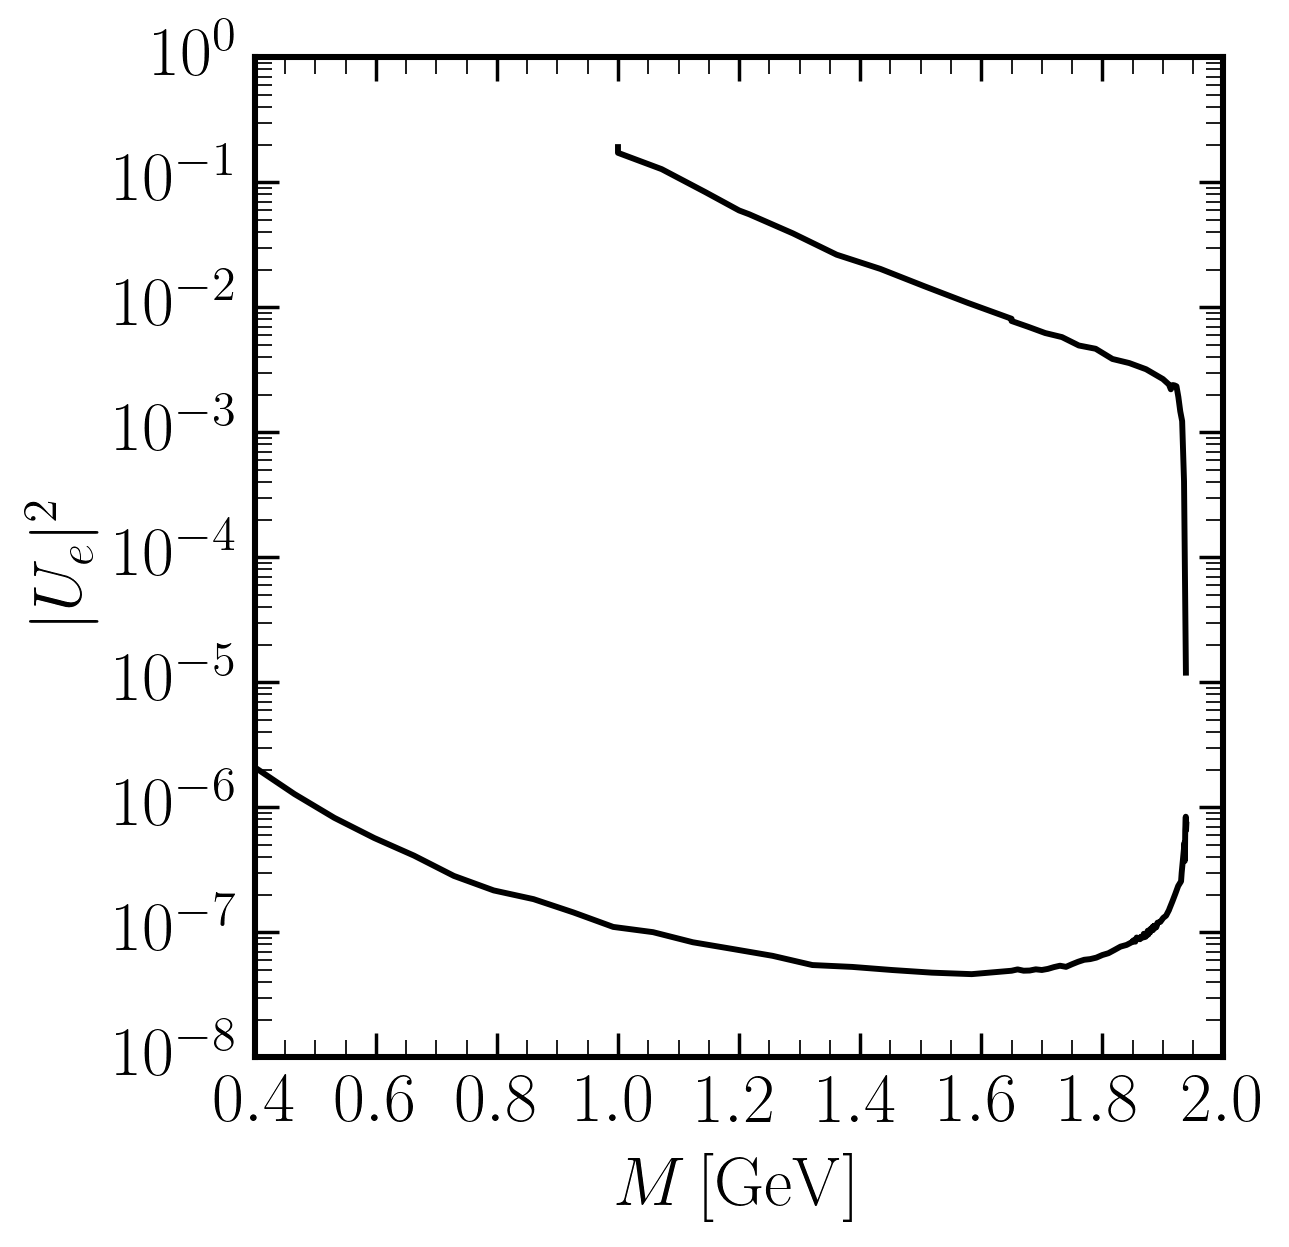
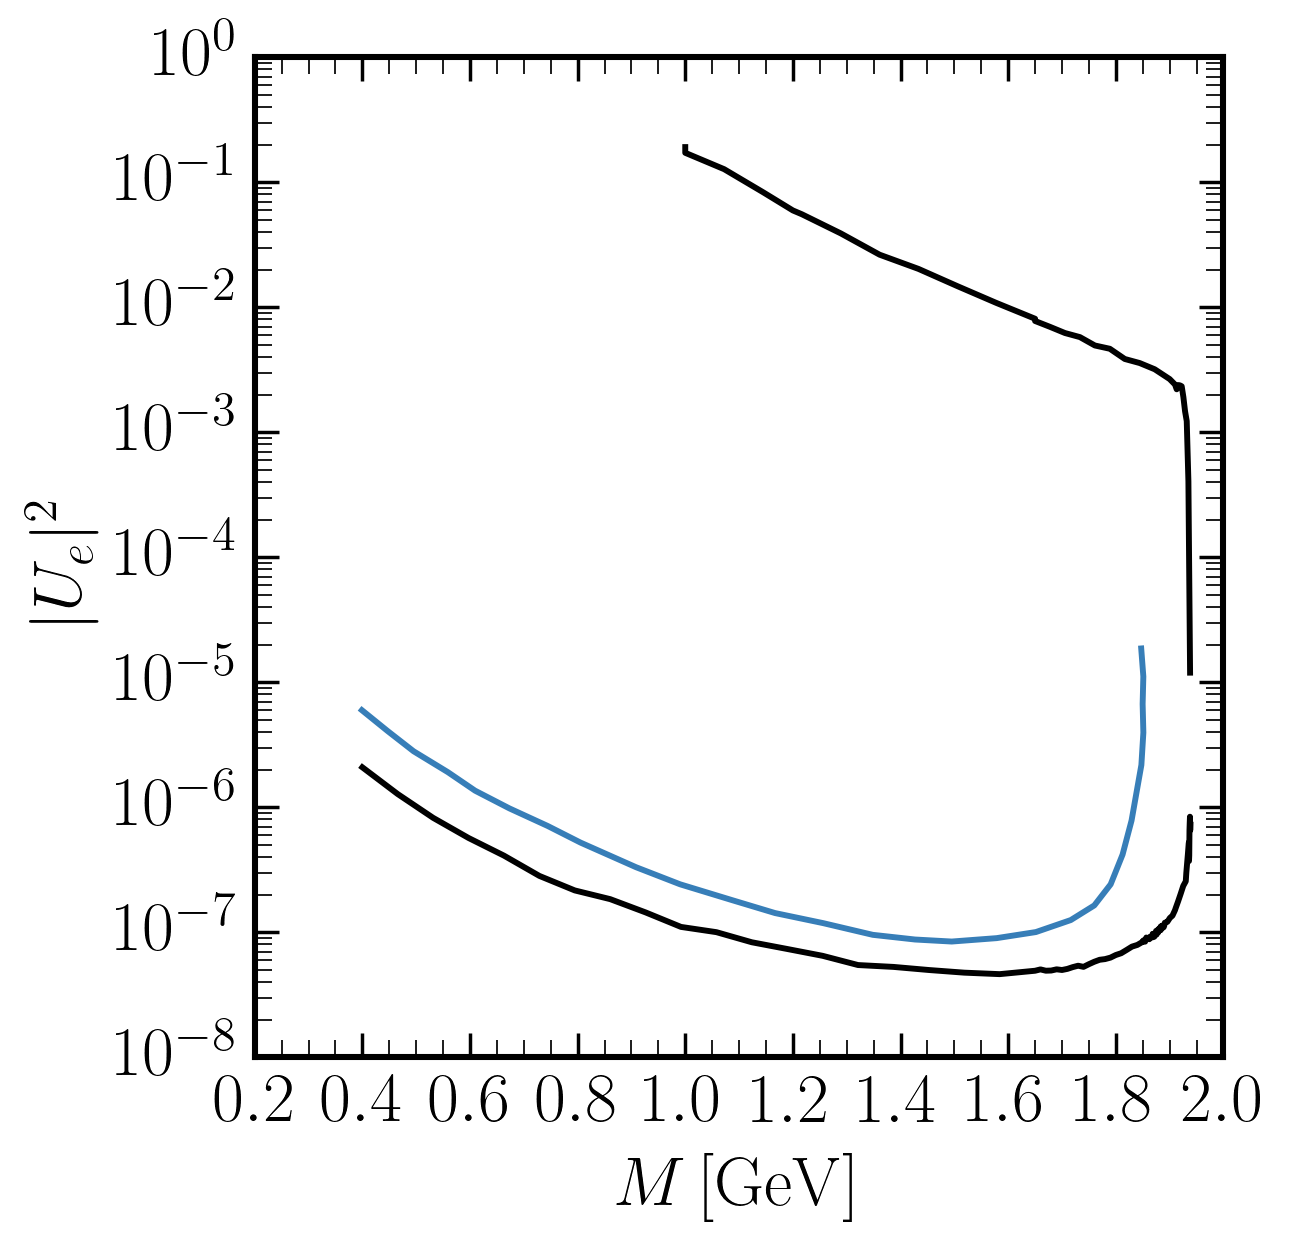
plot bebc data too

diff --git a/plot.py b/plot.py
@@ -2,10 +2,18 @@ import os
 from turtle import color
 import numpy as np
 import matplotlib.pyplot as plt
+import matplotlib as mpl
+from cycler import cycler
 from mixing_type import MixingType
 from utils import sliced_hist
 import sys
 
+plt.style.use('ja')
+
+plt.rcParams['figure.facecolor'] = 'white'
+mpl.rcParams['axes.prop_cycle'] = cycler(color=['#377eb8', '#ff7f00', '#4daf4a',
+                  '#f781bf', '#a65628', '#984ea3',
+                  '#999999', '#e41a1c', '#dede00'])
 def main():
     if len(sys.argv) < 2:
         raise Exception("Not enough arguments.'\n Usage: python plot.py [tau/electron]")    
@@ -14,11 +22,13 @@ def main():
     upper_bounds = read_csv_file(f"upper_bound_data/upper_bounds_{mixing_type}.csv")
     # lower_bounds = read_csv_file(f"upper_bound_data/upper_bounds_{mixing_type}.csv")
     lower_bounds = read_csv_file(f"lower_bound_data/lower_bounds_{mixing_type}.csv")
+    bebc_data = read_csv_file("./digitised_data/BEBC_bounds_electron.csv")
 
     lower_bounds.sort(key=lambda data: data[0])
     upper_bounds.sort(key=lambda data: data[0])
     lower_bounds = np.array(lower_bounds)
     upper_bounds = np.array(upper_bounds)
+    bebc_data = np.array(bebc_data)
 
     # # ------------------------ Plotting --------------------------------
     plt.figure(0)
@@ -32,6 +42,7 @@ def main():
     plt.ylabel(y_label)
     plt.plot(upper_bounds[:,0], upper_bounds[:,1], 'k')
     plt.plot(lower_bounds[:,0], lower_bounds[:,1], 'k')
+    plt.plot(bebc_data[:,0], bebc_data[:,1])
     plt.yscale('log')
     dirname = os.path.dirname(os.path.abspath(__file__))
     plt.savefig(os.path.join(dirname, f"recent_graphs/mass_bound_plot[{mixing_type}].png"), dpi=250)

diff --git a/digitised_data/xml_to_csv.py b/digitised_data/xml_to_csv.py
@@ -6,16 +6,13 @@ def main():
         raise Exception("Not enough arguments.\n Usage: python xml_to_csv.py <filename>")
     
     filename = sys.argv[1]
-
     with open(filename, 'r') as f:
-     data = f.read()
+        data = f.read()
 
     bs_data = BeautifulSoup(data, "xml")
-
     points = bs_data.find_all('point')
 
-    filename = filename[:-4] # cut off .xml
-    output = open(f"{filename}.csv", "w")
+    output = open(f"{filename[:-4]}.csv", "w")
     for point in points:
         output.write(f"{point.get('dx')},{point.get('dy')}\n")
 
